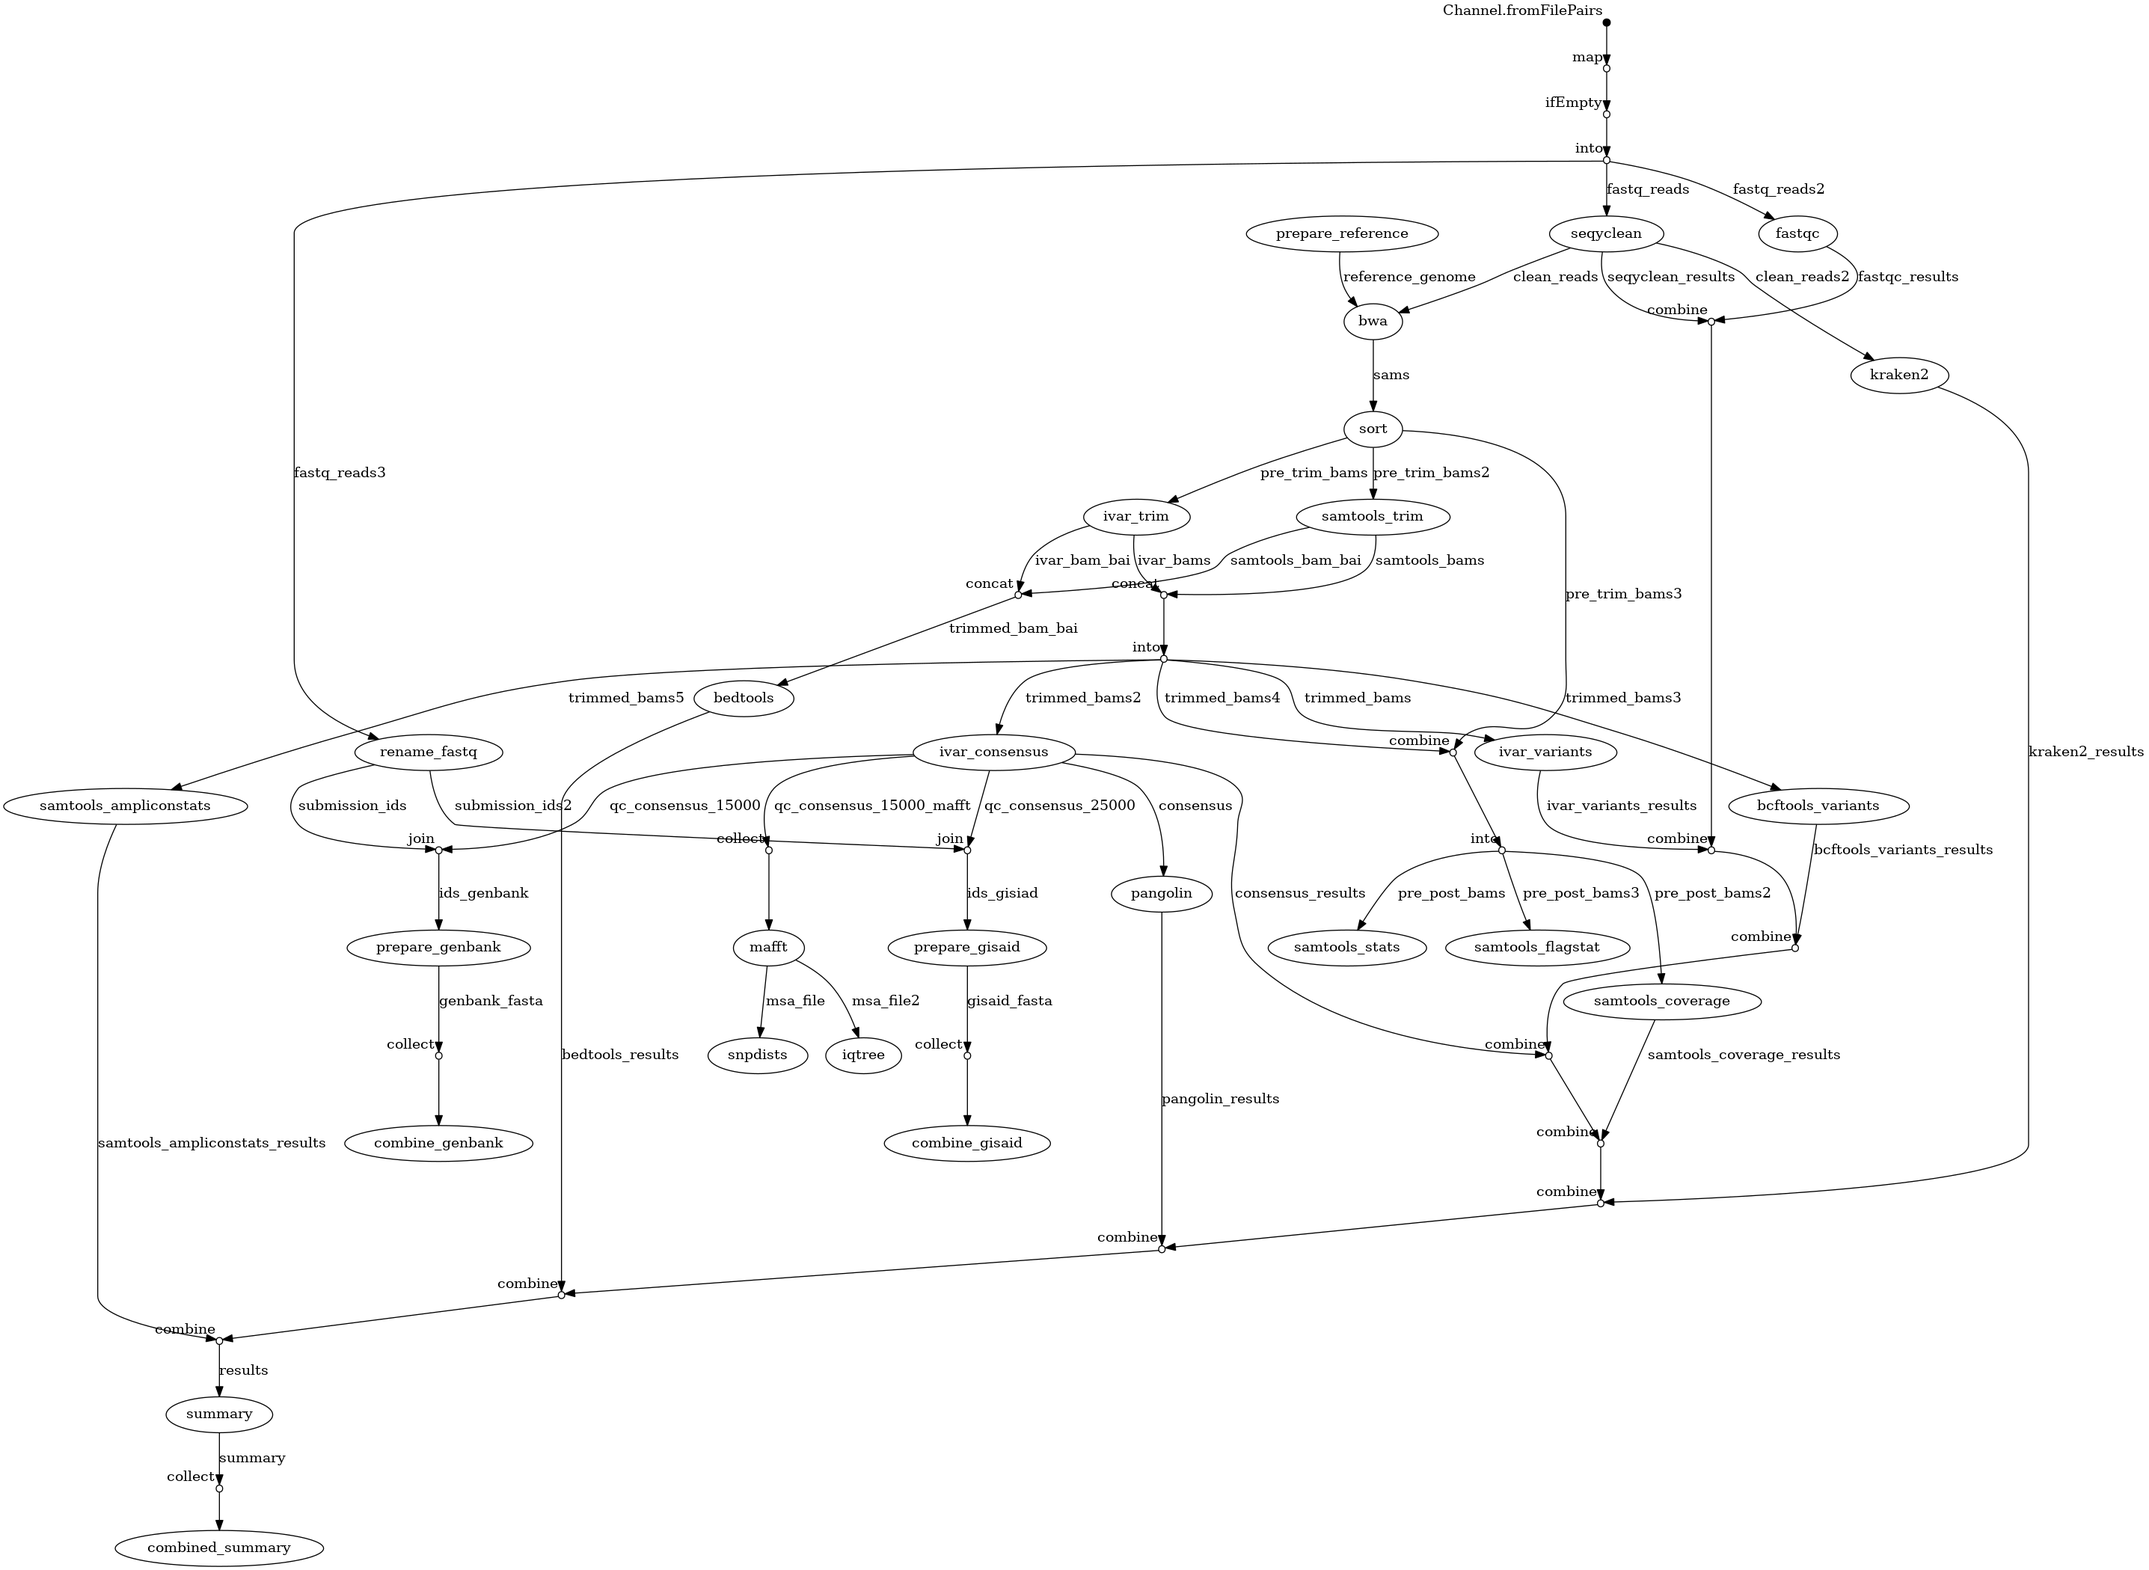
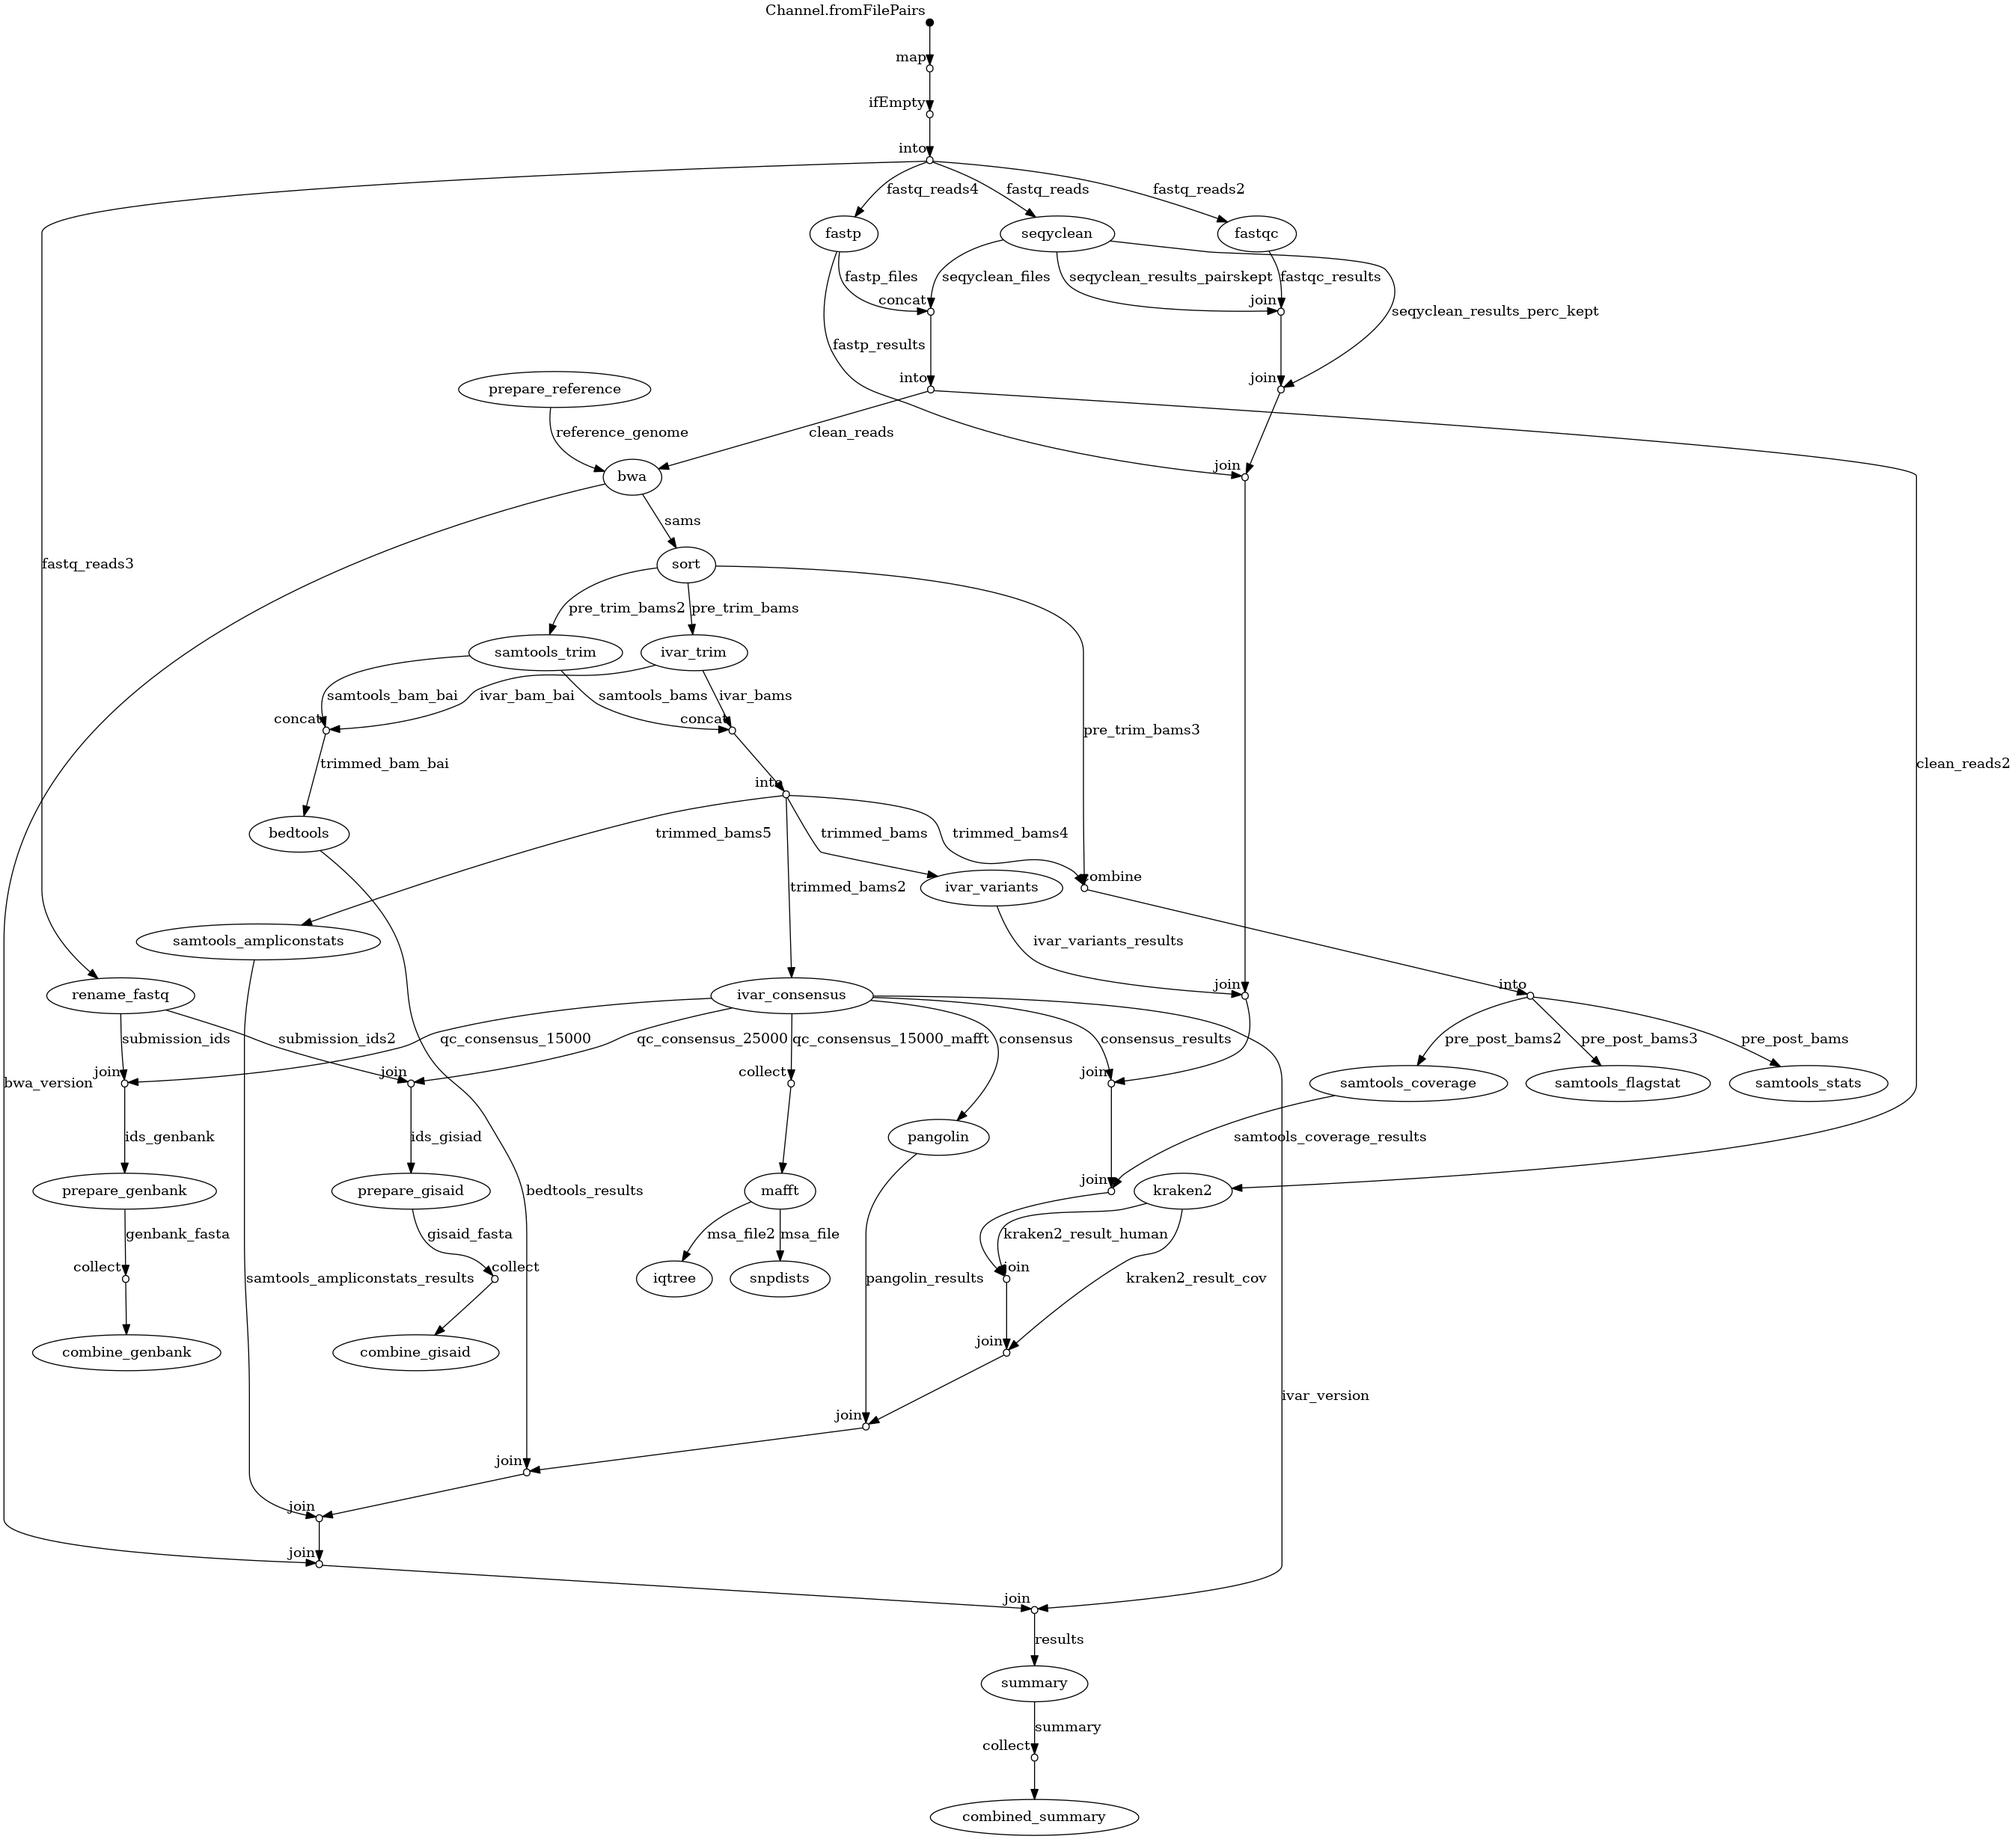
added fastp option

diff --git a/README.md b/README.md
@@ -1,6 +1,6 @@
 # Cecret
 
-Named after the beautiful [Cecret lake](https://en.wikipedia.org/wiki/Cecret_Lake) 
+Named after the beautiful [Cecret lake](https://en.wikipedia.org/wiki/Cecret_Lake)
 
 Location: 40.570°N 111.622°W , 9,875 feet (3,010 m) elevation
 
@@ -30,12 +30,12 @@ so that you can use `git pull` for updates.
    - Nextflow version 20+ is required (`nextflow -v` to check your installation)
 - [Singularity](https://singularity.lbl.gov/install-linux)
 
-or 
-- [Docker](https://docs.docker.com/get-docker/) (*with the caveat that the creator and maintariner uses singularity and may not be able to troublshoot all docker issues*)
+or
+- [Docker](https://docs.docker.com/get-docker/) (*with the caveat that the creator and maintainer uses singularity and may not be able to troubleshoot all docker issues*)
 
 # Usage
 
-### Arrange the fastq.gz reads as follows
+### Arrange the fastq.gz reads as follows or designate directory with `--reads`
 ```
 directory
 |-Sequencing_reads
@@ -58,7 +58,13 @@ nextflow run Cecret.nf -c config/singularity.config -resume --relatedness true
 ### Using samtools to trim amplicons instead of ivar
 Setting trimmer parameter to `samtools`
 ```
-nextflow run Cecret.nf -c config/singularity.config -resume --trimmer 'samtools'
+nextflow run Cecret.nf -c config/singularity.config -resume --trimmer samtools
+```
+
+### Using fastp to clean reads instead of seqyclean
+Setting trimmer parameter to `fastp`
+```
+nextflow run Cecret.nf -c config/singularity.config -resume --cleaner fastp
 ```
 
 ### Classify reads with kraken2
@@ -117,12 +123,12 @@ NNNNNNNNNNNNNNNNNNNNNNNNNNNNNNNNNNNNNNNNNNN
 ## The main components of Cecret are:
 
 - [seqyclean](https://github.com/ibest/seqyclean) - for cleaning reads
+- [fastp](https://github.com/OpenGene/fastp) - for cleaning reads ; optional faster alternative to seqyclean
 - [bwa](http://bio-bwa.sourceforge.net/) - for aligning reads to the reference
 - [ivar](https://andersen-lab.github.io/ivar/html/manualpage.html) - calling variants and creating a consensus fasta; optional primer trimmer
 - [samtools](http://www.htslib.org/) - for QC metrics and sorting; optional primer trimmer
 - [fastqc](https://github.com/s-andrews/FastQC) - for QC metrics
 - [bedtools](https://bedtools.readthedocs.io/en/latest/) - for depth estimation over amplicons
-- [bcftools](http://samtools.github.io/bcftools/bcftools.html) - calling variants into vcf file format
 - [kraken2](https://ccb.jhu.edu/software/kraken2/) - for read classification
 - [pangolin](https://github.com/cov-lineages/pangolin) - for lineage classification
 - [mafft](https://mafft.cbrc.jp/alignment/software/) - for multiple sequence alignment (optional, relatedness must be set to "true")
@@ -132,17 +138,18 @@ NNNNNNNNNNNNNNNNNNNNNNNNNNNNNNNNNNNNNNNNNNN
 
 ## Final file structure
 ```
-run_results.txt                        # information about the sequencing run that's compatible with legacy workflows
-covid_samples.txt                      # only if supplied initially
+run_results.txt                       # information about the sequencing run that's compatible with legacy workflows
+covid_samples.txt                     # only if supplied initially
 cecret
 |-aligned
 | |-pretrimmed.sorted.bam
-|-bcftools_variants
-| |-sample.variants.vcf
 |-bedtools
-| |-sample.multicov.txt                # depth per amplicon
+| |-sample.multicov.txt               # depth per amplicon
 |-consensus
-| |-consensus.fa                       # the likely reason you are running this workflow
+| |-consensus.fa                      # the likely reason you are running this workflow
+|-fastp
+| |-sample_clean_PE1.fastq            # clean file: only if params.cleaner=fastp
+| |-sample_clean_PE2.fastq            # clean file: only if params.cleaner=fastp
 |-fastqc
 | |-sample.fastqc.html
 | |-sample.fastqc.zip
@@ -201,7 +208,7 @@ Sequencing_reads
 work                                  # nextflows work directory. Likely fairly large.
 ```
 
-# Adjustable Paramters with their defaul values 
+# Adjustable Paramters with their defaul values
 Parameters can be adjusted in a config file or on the command line. Command line adjustments look like --trimmer 'samtools'
 
 ### input and output directories
@@ -214,11 +221,16 @@ Parameters can be adjusted in a config file or on the command line. Command line
 * params.gff_file = workflow.projectDir + "/config/MN908947.3.gff"
 * params.primer_bed = workflow.projectDir + "/config/artic_V3_nCoV-2019.bed"
 
-### for ivar trimming and variant/consensus calling
+### toggles for trimmers and cleaner
 * params.trimmer = 'ivar'
+* params.cleaner = 'seqyclean'
+
+### for ivar trimming and variant/consensus calling
+
 * params.ivar_quality = 20
 * params.ivar_frequencing_threshold = 0.6
-* params.ivar_minimum_read_depth = 0
+* params.ivar_minimum_read_depth = 10
+* params.mpileup_depth = 8000
 
 ### for optional kraken2 contamination detection
 * params.kraken2 = false
@@ -228,6 +240,7 @@ Parameters can be adjusted in a config file or on the command line. Command line
 * params.relatedness = false
 * params.max_ambiguous = '0.50'
 * params.outgroup = 'MN908947.3'
+* params.mode='GTR'
 
 ### CPUS to use
 * params.maxcpus = Runtime.runtime.availableProcessors()
